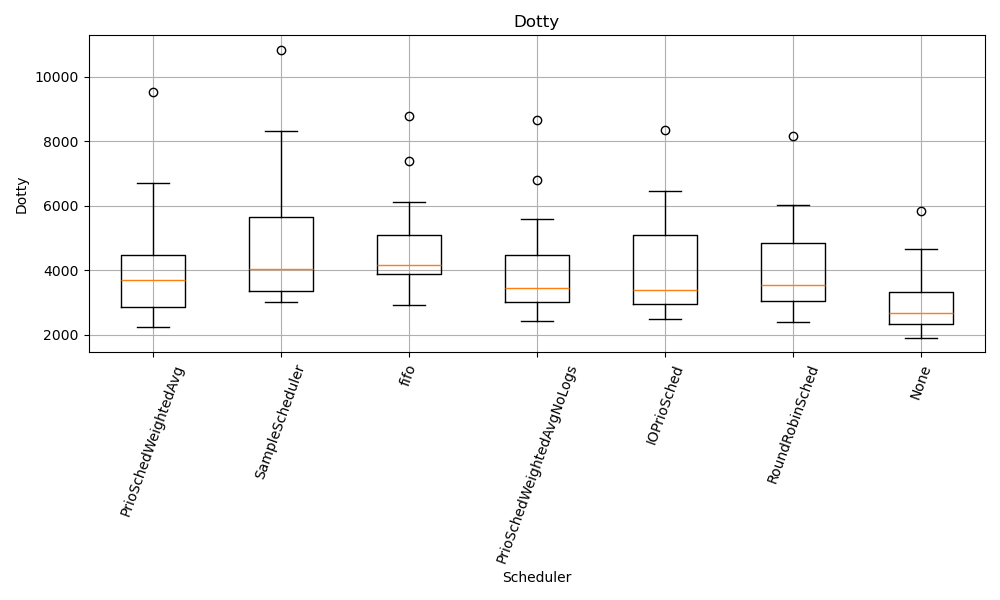
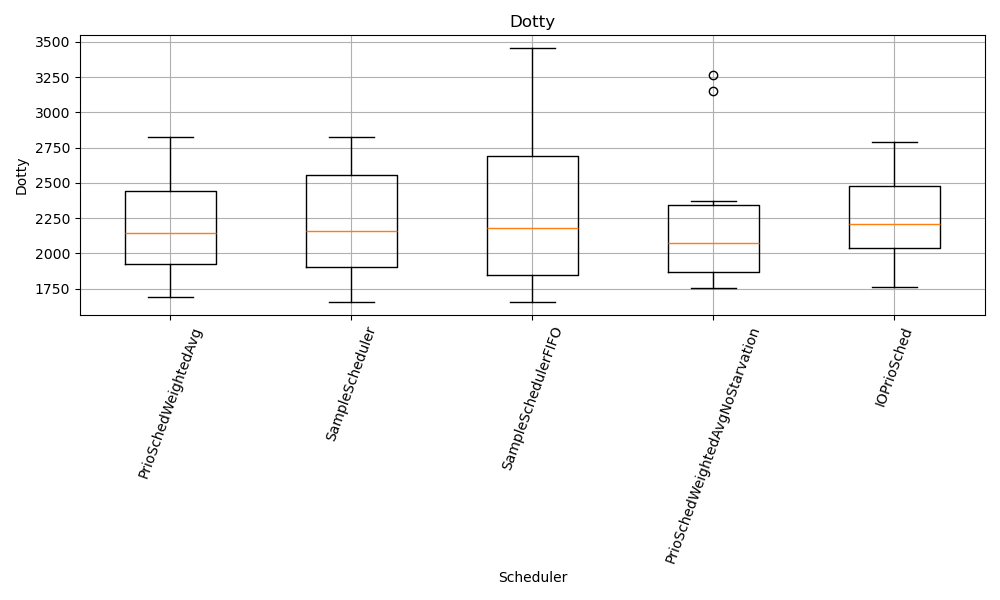
better graphs.py

diff --git a/graphs.py b/graphs.py
@@ -9,7 +9,23 @@ import seaborn as sns
 # box plot total wait times
 
 # ALL COMPAREABLES
-compareables = ["all-15-PrioSchedWeightedAvg", "all-15-SampleScheduler", "all-15-SampleScheduler---fifo", "all-15-PrioSchedWeightedAvgNoLogs", "all-15-IOPrioSched", "all-15-RoundRobinSched", "all-15-None"]
+
+# run this one for the first comparison
+# compareables = ["all-15-SampleScheduler", "all-15-SampleScheduler---fifo", "all-15-None"]
+
+# compareables = ["all-15-PrioSchedWeightedAvg---slice_time_prio=20000000", "all-15-SampleScheduler", "all-15-SampleScheduler---fifo", "all-15-PrioSchedWeightedAvgNoStarvation---slice_time_prio=20000000", "all-15-IOPrioSched---slice_time_prio=20000000", "all-15-RoundRobinSched---slice_time_prio=20000000"]
+compareables = ["all-15-PrioSchedWeightedAvg---slice_time_prio=20000000", "all-15-SampleScheduler", "all-15-SampleScheduler---fifo", "all-15-PrioSchedWeightedAvgNoStarvation---slice_time_prio=20000000", "all-15-IOPrioSched---slice_time_prio=20000000"]
+# compareables = ["all-15-PrioSchedWeightedAvg---slice_time_prio=20000000", "all-15-PrioSchedWeightedAvgNoStarvation---slice_time_prio=20000000", "all-15-IOPrioSched---slice_time_prio=20000000", "all-15-RoundRobinSched---slice_time_prio=20000000"]
+
+value_mapping= {
+    "all-15-PrioSchedWeightedAvg---slice_time_prio=20000000": "PrioSchedWeightedAvg",
+    "all-15-PrioSchedWeightedAvgNoStarvation---slice_time_prio=20000000": "PrioSchedWeightedAvgNoStarvation",
+    "all-15-IOPrioSched---slice_time_prio=20000000": "IOPrioSched",
+    "all-15-RoundRobinSched---slice_time_prio=20000000": "RoundRobinSched",
+    "all-15-SampleScheduler---fifo": "SampleSchedulerFIFO",
+    "all-15-SampleScheduler": "SampleScheduler",
+    "all-15-None": "EEVDF"
+}
 
 invalid_compareables = []
 
@@ -29,7 +45,7 @@ def plot_boxplot(data, title, ylabel, filename, xticks=None, xlabel=None):
     plt.ylabel(ylabel)
     plt.title(title)
     if xticks is None:
-        plt.xticks(range(1, len(valid_compareables) + 1), map(lambda x: x.split("-")[0 if BENCHMARK != "renaissance" else -1], valid_compareables), rotation=70)
+        plt.xticks(range(1, len(valid_compareables) + 1), [value_mapping[c] for c in valid_compareables], rotation=70)
     else:
         plt.xticks(range(1, len(xticks) + 1), xticks, rotation=70)
     plt.grid(True)
@@ -82,12 +98,21 @@ for compareable in valid_compareables:
     else:
         total_times[compareable] = data[compareable][BENCHMARK]["times"]
 
+# Remove outliers above 75%
+import numpy as np
+for compareable in valid_compareables:
+    q75 = np.percentile(total_times[compareable], 75)
+    total_times[compareable] = [time for time in total_times[compareable] if time <= q75]
+
 plot_boxplot([total_times[compareable] for compareable in valid_compareables], "Total Time", "Time (ms)", f"total-times-{BENCHMARK}")
 
 if BENCHMARK == "renaissance":
     for key in data[valid_compareables[0]].keys():
         if key != "times":
             key_data = {compareable: data[compareable][key]["times"][1:] for compareable in valid_compareables}
+            for compareable in valid_compareables:
+                q75 = np.percentile(key_data[compareable], 75)
+                key_data[compareable] = [time for time in key_data[compareable] if time <= q75]
             plot_boxplot([key_data[compareable] for compareable in valid_compareables], f"{key.replace('_', ' ').title()}", key.replace('_', ' ').title(), f"{key}-{BENCHMARK}")
     exit()
 
